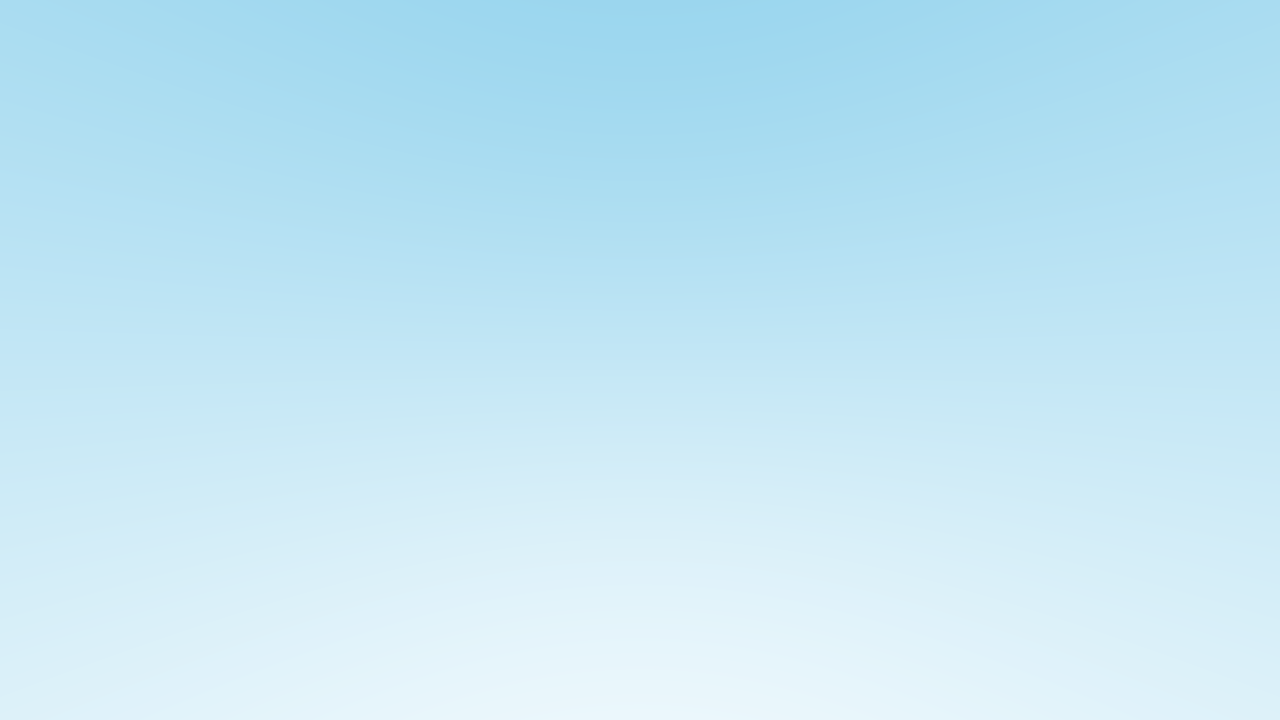
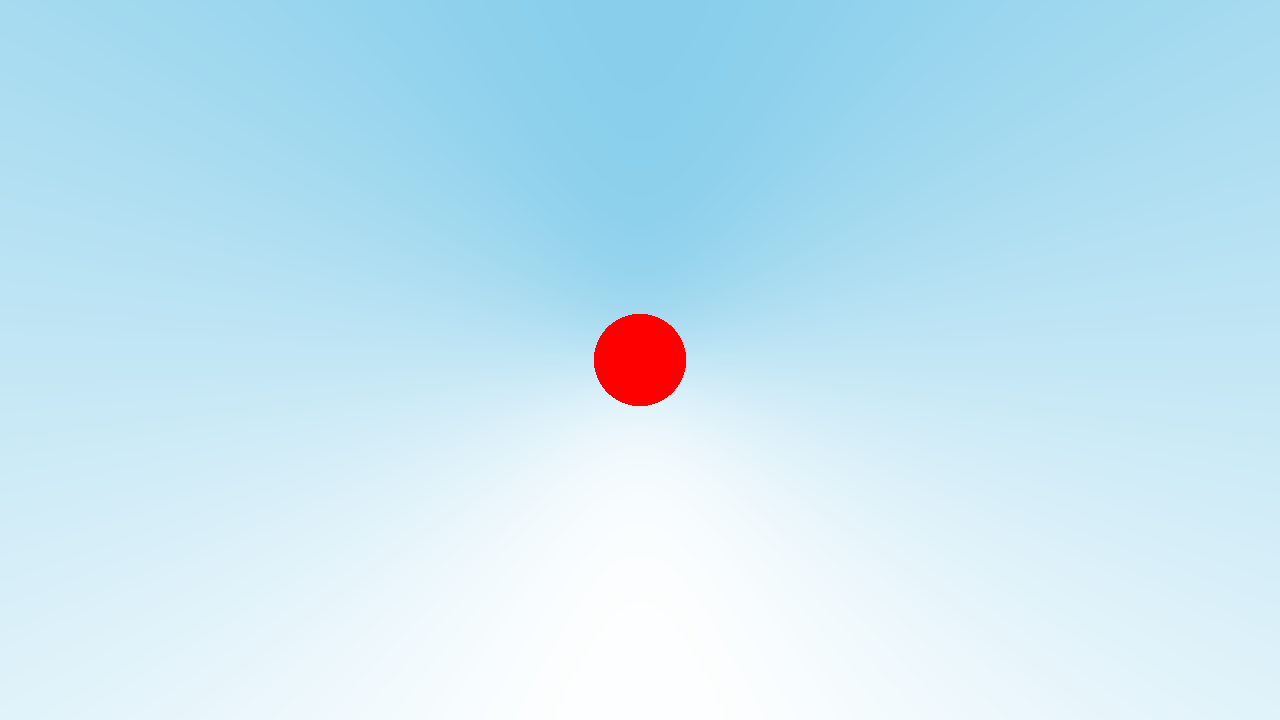
Finished section 5: "Adding a Sphere"

Changed region(s): [[0.4062, 0.1222, 0.5938, 0.8556]]

diff --git a/src/geometry.rs b/src/geometry.rs
@@ -3,6 +3,27 @@ use std::ops::{Add, AddAssign, Div, DivAssign, Mul, MulAssign, Neg, Sub, SubAssi
 use crate::image::{self, Color};
 
 #[derive(Debug, Default, Clone, Copy, PartialEq)]
+pub struct Sphere {
+    center: Point3D,
+    radius: f64
+}
+
+impl Sphere {
+    pub fn new(center: Point3D, radius: f64) -> Self { Self { center, radius } }
+
+    pub fn hit(&self, ray: &Ray) -> bool {
+        let oc = ray.origin - self.center;
+        let a = ray.direction * ray.direction;
+        let b = 2.0 * oc * ray.direction;
+        let c = oc * oc - self.radius * self.radius;
+        let discriminant = b*b -  4.0*a*c;
+        discriminant > 0.0
+    }
+}
+
+
+
+#[derive(Debug, Default, Clone, Copy, PartialEq)]
 pub struct Ray {
     origin: Point3D,
     direction: Vec3D,
@@ -18,6 +39,10 @@ impl Ray {
     }
 
     pub fn color(&self) -> image::Color {
+        if Sphere::new(Point3D::new(0, 0, -1), 0.5).hit(self) {
+            return Color::RED;
+        }
+
         let mut direction = self.direction;
         direction.normalize();
 

diff --git a/src/image.rs b/src/image.rs
@@ -26,6 +26,12 @@ impl Color {
         )
     }
 
+    pub const RED: Self = Self {
+        r: 1.0,
+        g: 0.0,
+        b: 0.0
+    };
+
     pub const SKY_BLUE: Self = Self {
         r: 135.0 / 255.0,
         g: 206.0 / 255.0,
